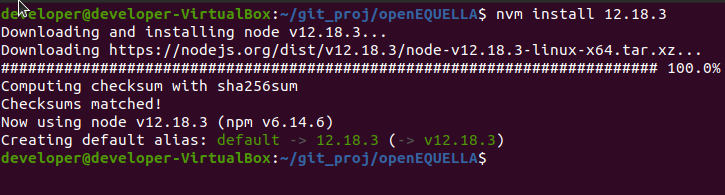
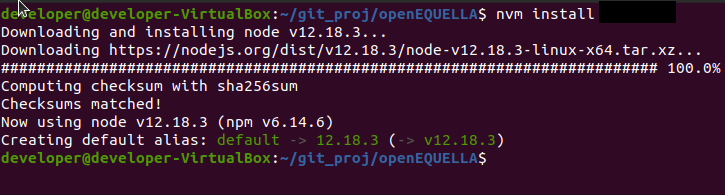
Fixed nvm install instructions.

Changed region(s): [[0.8193, 0.0, 0.9407, 0.1231]]

diff --git a/Dev/docs/How-to-install-openEQUELLA-Development-Environment-in-Virtual-Box-Ubuntu-OS.md b/Dev/docs/How-to-install-openEQUELLA-Development-Environment-in-Virtual-Box-Ubuntu-OS.md
@@ -307,21 +307,20 @@ If installed correctly you will get a message "NVM" like below.
 
 `$ nvm ls-remote`
 
-The numerous version will scroll across the screen
+The numerous version will scroll across the screen.
 
 ![show nvm versions](images/nvm/03%20show%20versions.png)
 
 4. The openEQUELLA dev environment uses a .nvmrc file which tells nvm which version of node.js to use. In order to
-invoke the .nvmrc file type the command below
+invoke the .nvmrc file type the command below.
 
 `$ nvm ls-remote`
 
 ![use nvmrc file](images/nvm/04%20invoce%20nvmrc.png)
 
-5. If you do not already have the correct version of node.js installed, you will be prompted to install the
-correct version.
+5. If you do not already have the correct version of node.js nvm will look at the .nvmrc and install the correct version.
 
-`$ nvm install 12.8.3`
+`$ nvm install`
 
 ![nvm install node](images/nvm/05%20nvm%20install.png)
 
